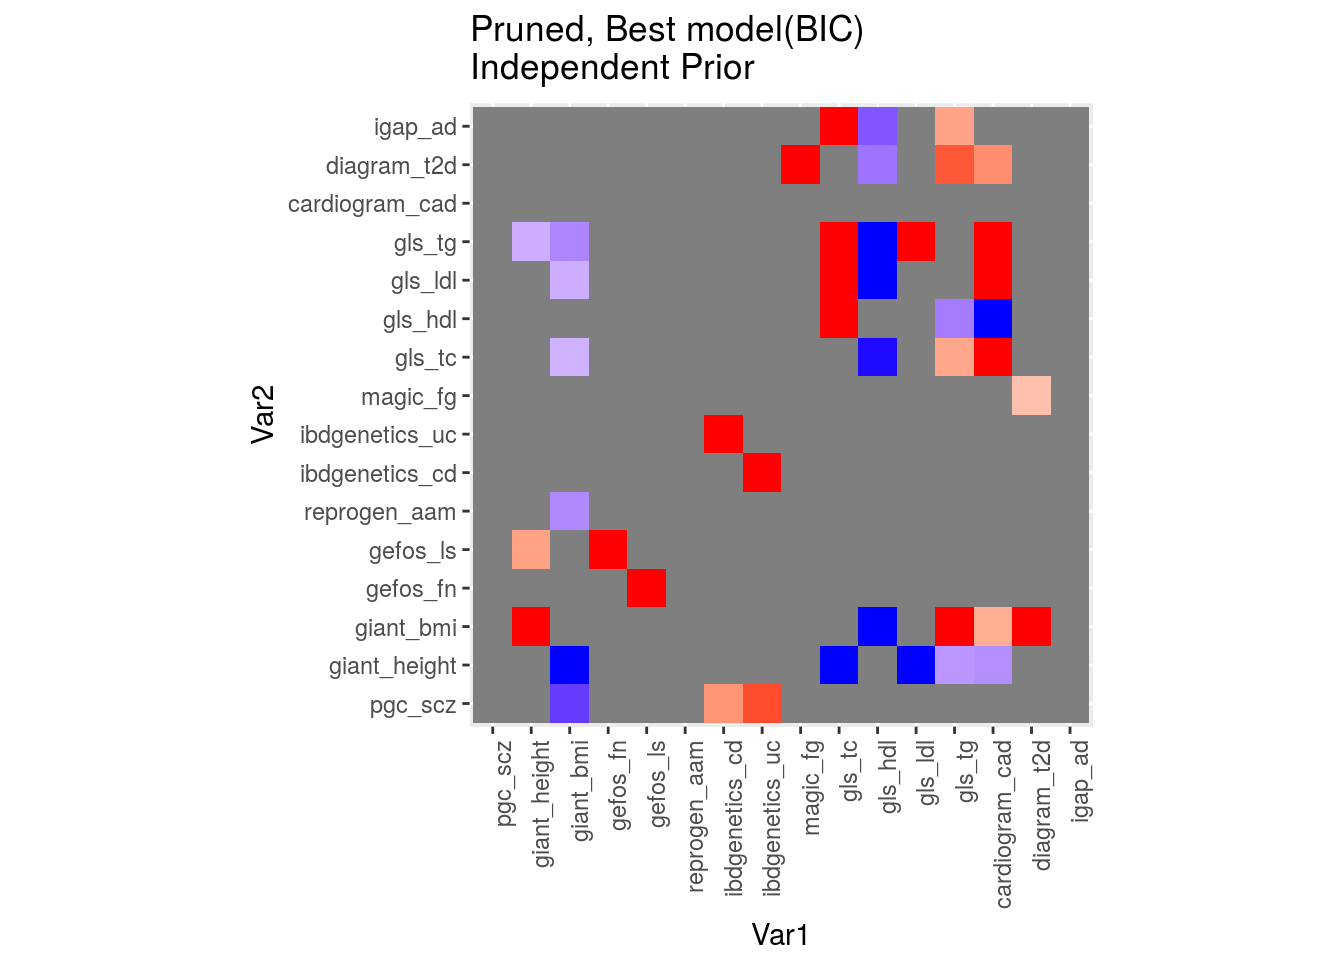
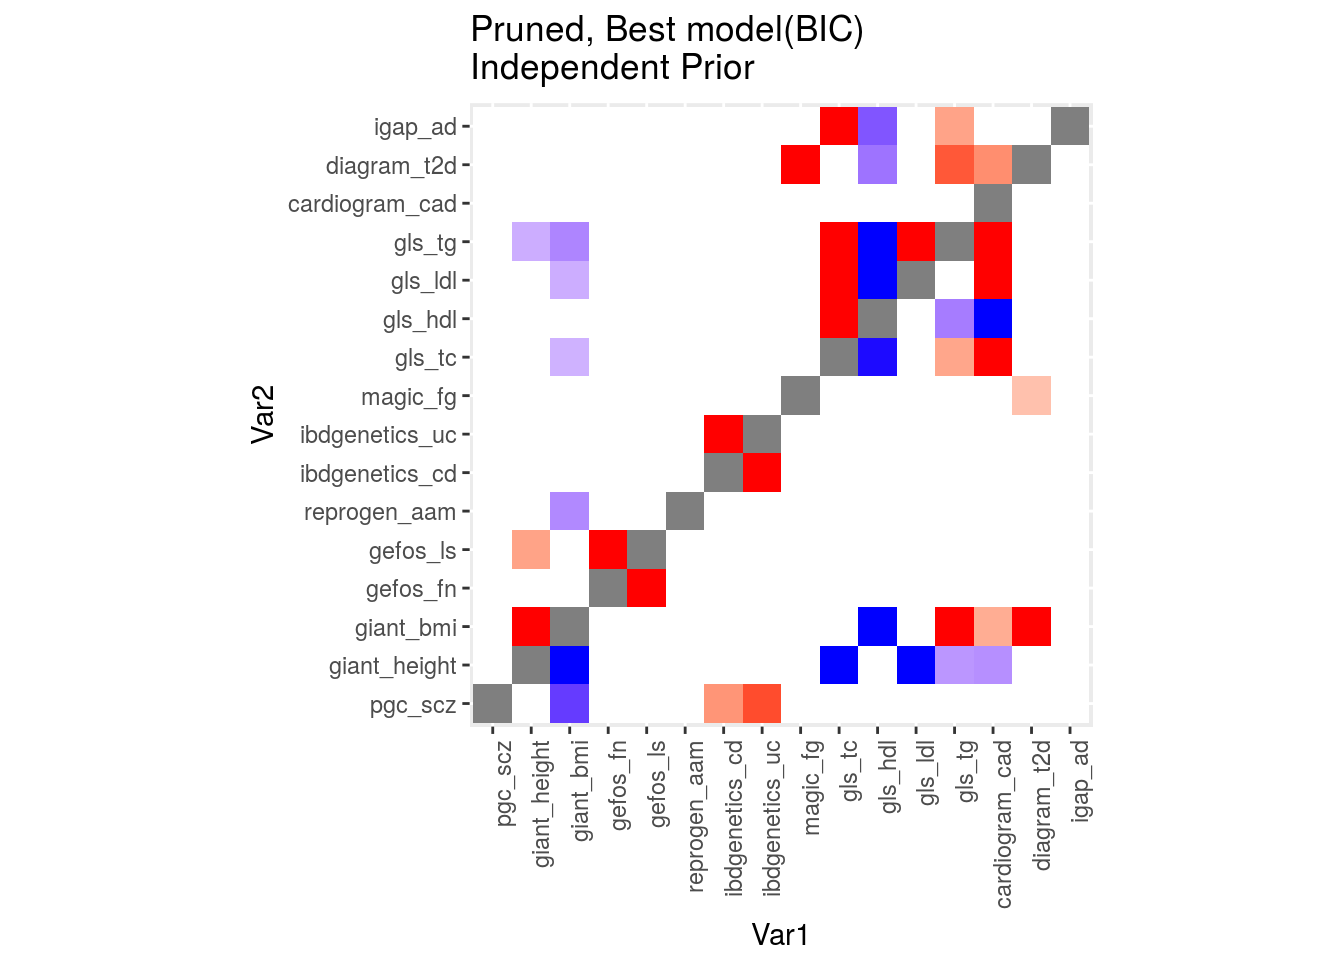
new gwas results

Changed region(s): [[0.3438, 0.0938, 0.8125, 0.75]]

diff --git a/docs/gwas_ss.html b/docs/gwas_ss.html
@@ -322,23 +322,17 @@ div.tocify {
 </div>
 <div id="results-on-pruned-data-set" class="section level2">
 <h2>Results on pruned data set</h2>
-<p>Effect sizes; data pruned for LD at a theshold of 0.1 and with LDAK weights: <img src="gwas_ss_files/figure-html/unnamed-chunk-1-1.png" width="672" /><img src="gwas_ss_files/figure-html/unnamed-chunk-1-2.png" width="672" /></p>
-<p><img src="gwas_ss_files/figure-html/unnamed-chunk-3-1.png" width="672" /><img src="gwas_ss_files/figure-html/unnamed-chunk-3-2.png" width="672" /></p>
+<p>Effect sizes are shown for the best model as determined by BIC. A white square indicates that BIC selected the model in which that parameter is zero. A grey square means the result is missing. SNPs are pruned using an LD threshold of 0.1. LDAK weights are included. <img src="gwas_ss_files/figure-html/unnamed-chunk-1-1.png" width="672" /><img src="gwas_ss_files/figure-html/unnamed-chunk-1-2.png" width="672" /><img src="gwas_ss_files/figure-html/unnamed-chunk-1-3.png" width="672" /></p>
+<p>Effect size estimates from the full model (model 4 above):</p>
 <p>A handmade list of differences from Pickerell et al:</p>
 <table>
-<colgroup>
-<col width="10%" />
-<col width="11%" />
-<col width="28%" />
-<col width="29%" />
-<col width="20%" />
-</colgroup>
 <thead>
 <tr class="header">
 <th>Trait 1</th>
 <th>Trait 2</th>
-<th>Best BIC (Indep Prior)</th>
-<th>Best BIC (Joint Prior)</th>
+<th>Ind. Prior</th>
+<th>Joint Prior1</th>
+<th>Joint Prior2</th>
 <th>Pickerell et al</th>
 </tr>
 </thead>
@@ -348,11 +342,13 @@ div.tocify {
 <td>bmi</td>
 <td>-</td>
 <td>-</td>
+<td>-</td>
 <td>0</td>
 </tr>
 <tr class="even">
 <td>height</td>
 <td>ad</td>
+<td>0</td>
 <td>0</td>
 <td>0</td>
 <td>-</td>
@@ -362,12 +358,14 @@ div.tocify {
 <td>aam</td>
 <td>0</td>
 <td>0</td>
+<td>0</td>
 <td>+</td>
 </tr>
 <tr class="even">
 <td>bmi</td>
 <td>height</td>
 <td>+</td>
+<td>0</td>
 <td>0</td>
 <td>0</td>
 </tr>
@@ -375,7 +373,8 @@ div.tocify {
 <td>bmi</td>
 <td>cad</td>
 <td>+</td>
-<td>0</td>
+<td>+</td>
+<td>+</td>
 <td>0</td>
 </tr>
 <tr class="even">
@@ -383,60 +382,85 @@ div.tocify {
 <td>aam</td>
 <td>0</td>
 <td>0</td>
+<td>0</td>
 <td>-</td>
 </tr>
 <tr class="odd">
+<td>bmi</td>
+<td>tc</td>
+<td>0</td>
+<td>-</td>
+<td>0</td>
+<td>0</td>
+</tr>
+<tr class="even">
 <td>fn</td>
 <td>t2d</td>
 <td>0</td>
 <td>0</td>
+<td>0</td>
 <td>+</td>
 </tr>
-<tr class="even">
+<tr class="odd">
 <td>ls</td>
 <td>height</td>
 <td>+</td>
 <td>0</td>
 <td>0</td>
+<td>0</td>
 </tr>
-<tr class="odd">
+<tr class="even">
 <td>aam</td>
 <td>bmi</td>
 <td>-</td>
 <td>0</td>
+<td>0</td>
 <td>-</td>
 </tr>
-<tr class="even">
+<tr class="odd">
 <td>aam</td>
 <td>hdl</td>
 <td>0</td>
 <td>0</td>
+<td>0</td>
 <td>+</td>
 </tr>
-<tr class="odd">
+<tr class="even">
 <td>aam</td>
 <td>ls</td>
 <td>0</td>
 <td>0</td>
+<td>0</td>
 <td>-</td>
+</tr>
+<tr class="odd">
+<td>aam</td>
+<td>height</td>
+<td>0</td>
+<td>0</td>
+<td>0</td>
+<td>+</td>
 </tr>
 <tr class="even">
 <td>aam</td>
-<td>height</td>
+<td>cd</td>
+<td>0</td>
 <td>0</td>
 <td>0</td>
 <td>+</td>
 </tr>
 <tr class="odd">
 <td>aam</td>
-<td>cd</td>
+<td>cad</td>
 <td>0</td>
+<td>-</td>
+<td>-</td>
 <td>0</td>
-<td>+</td>
 </tr>
 <tr class="even">
 <td>cd</td>
 <td>ad</td>
+<td>0</td>
 <td>0</td>
 <td>0</td>
 <td>-</td>
@@ -446,6 +470,7 @@ div.tocify {
 <td>t2d</td>
 <td>+</td>
 <td>0</td>
+<td>0</td>
 <td>+</td>
 </tr>
 <tr class="even">
@@ -454,6 +479,7 @@ div.tocify {
 <td>-</td>
 <td>0</td>
 <td>0</td>
+<td>0</td>
 </tr>
 <tr class="odd">
 <td>tc</td>
@@ -461,11 +487,13 @@ div.tocify {
 <td>-</td>
 <td>0</td>
 <td>0</td>
+<td>0</td>
 </tr>
 <tr class="even">
 <td>tc</td>
-<td>cad</td>
+<td>tg</td>
 <td>+</td>
+<td>0</td>
 <td>0</td>
 <td>+</td>
 </tr>
@@ -475,81 +503,101 @@ div.tocify {
 <td>0</td>
 <td>+</td>
 <td>+</td>
+<td>+</td>
 </tr>
 <tr class="even">
 <td>hdl</td>
 <td>cad</td>
 <td>-</td>
 <td>-</td>
+<td>-</td>
 <td>0</td>
 </tr>
 <tr class="odd">
+<td>hdl</td>
+<td>tg</td>
+<td>-</td>
+<td>0</td>
+<td>0</td>
+<td>-</td>
+</tr>
+<tr class="even">
 <td>ldl</td>
 <td>bmi</td>
 <td>-</td>
 <td>0</td>
+<td>0</td>
 <td>-</td>
 </tr>
-<tr class="even">
+<tr class="odd">
 <td>ldl</td>
 <td>hdl</td>
 <td>-</td>
 <td>0</td>
 <td>0</td>
+<td>0</td>
 </tr>
-<tr class="odd">
+<tr class="even">
 <td>ldl</td>
 <td>tg</td>
 <td>0</td>
 <td>0</td>
+<td>0</td>
 <td>+</td>
 </tr>
-<tr class="even">
+<tr class="odd">
 <td>tg</td>
 <td>height</td>
 <td>-</td>
 <td>0</td>
 <td>0</td>
+<td>0</td>
 </tr>
-<tr class="odd">
+<tr class="even">
 <td>tg</td>
 <td>bmi</td>
 <td>-</td>
 <td>0</td>
 <td>0</td>
+<td>0</td>
 </tr>
-<tr class="even">
+<tr class="odd">
 <td>t2d</td>
 <td>hdl</td>
+<td>-</td>
 <td>-</td>
 <td>0</td>
 <td>0</td>
 </tr>
-<tr class="odd">
+<tr class="even">
 <td>t2d</td>
 <td>cad</td>
 <td>+</td>
 <td>0</td>
 <td>0</td>
+<td>0</td>
 </tr>
-<tr class="even">
+<tr class="odd">
 <td>ad</td>
 <td>tc</td>
 <td>+</td>
 <td>0</td>
 <td>0</td>
+<td>0</td>
 </tr>
-<tr class="odd">
+<tr class="even">
 <td>ad</td>
 <td>hdl</td>
 <td>-</td>
 <td>0</td>
 <td>0</td>
+<td>0</td>
 </tr>
-<tr class="even">
+<tr class="odd">
 <td>ad</td>
 <td>tg</td>
 <td>+</td>
+<td>0</td>
 <td>0</td>
 <td>0</td>
 </tr>
